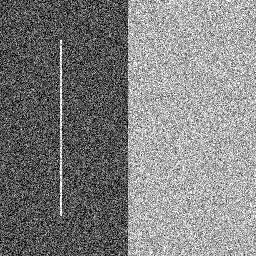
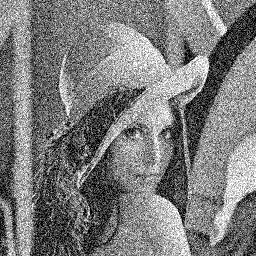
검증

diff --git a/experiments/gaussian_experiment.py b/experiments/gaussian_experiment.py
@@ -31,10 +31,9 @@ def png_bytes(image):
 
 
 def clean_image():
-    image = Image.new("RGB", (256, 256), (80, 80, 80))
-    image.paste((176, 176, 176), (128, 0, 256, 256))
-    image.paste((224, 224, 224), (60, 40, 62, 216))
-    return image
+    path = Path(__file__).resolve().with_name("Lenna.png")
+    with Image.open(path) as image:
+        return image.convert("RGB").resize((256, 256), Image.Resampling.LANCZOS)
 
 
 def noisy_image(clean, sigma):

diff --git a/docs/image-processing/results/gaussian/summary.md b/docs/image-processing/results/gaussian/summary.md
@@ -4,19 +4,19 @@ Generated by `experiments/gaussian_experiment.py`. Values use 8-bit L intensity.
 
 | Noise sigma | Radius px | RMSE vs clean | Flat variance | Step contrast | Thin-line contrast |
 |---:|---:|---:|---:|---:|---:|
-| 0 | 0 | 0.000 | 0.000 | 96.000 | 144.000 |
-| 0 | 1 | 5.547 | 0.000 | 39.000 | 93.000 |
-| 0 | 2 | 8.760 | 0.000 | 18.000 | 53.000 |
-| 0 | 4 | 10.956 | 0.000 | 10.000 | 24.000 |
-| 5 | 0 | 5.016 | 25.623 | 96.266 | 144.715 |
-| 5 | 1 | 5.778 | 2.333 | 39.078 | 93.012 |
-| 5 | 2 | 8.822 | 0.635 | 18.312 | 52.465 |
-| 5 | 4 | 10.968 | 0.198 | 9.039 | 23.434 |
-| 20 | 0 | 20.027 | 408.227 | 97.141 | 146.320 |
-| 20 | 1 | 7.961 | 31.360 | 39.289 | 93.270 |
-| 20 | 2 | 9.203 | 6.767 | 18.320 | 52.191 |
-| 20 | 4 | 11.047 | 1.710 | 9.023 | 23.164 |
-| 40 | 0 | 39.225 | 1574.841 | 97.422 | 143.570 |
-| 40 | 1 | 12.509 | 121.653 | 39.219 | 90.887 |
-| 40 | 2 | 10.348 | 25.701 | 18.195 | 50.488 |
-| 40 | 4 | 11.331 | 6.296 | 8.922 | 22.195 |
+| 0 | 0 | 0.000 | 1475.078 | 2.492 | 33.891 |
+| 0 | 1 | 8.421 | 1354.022 | 1.016 | 30.703 |
+| 0 | 2 | 14.107 | 1176.349 | 0.742 | 27.312 |
+| 0 | 4 | 20.455 | 810.972 | 0.961 | 20.066 |
+| 5 | 0 | 5.016 | 1494.061 | 2.758 | 34.605 |
+| 5 | 1 | 8.588 | 1348.549 | 1.062 | 30.977 |
+| 5 | 2 | 14.137 | 1173.298 | 0.680 | 27.387 |
+| 5 | 4 | 20.463 | 808.911 | 1.148 | 20.016 |
+| 20 | 0 | 19.992 | 1858.086 | 3.633 | 36.605 |
+| 20 | 1 | 10.216 | 1363.014 | 1.148 | 31.566 |
+| 20 | 2 | 14.415 | 1166.671 | 0.773 | 27.250 |
+| 20 | 4 | 20.531 | 800.637 | 1.117 | 19.887 |
+| 40 | 0 | 38.917 | 2985.925 | 4.641 | 38.105 |
+| 40 | 1 | 14.145 | 1410.196 | 1.320 | 31.926 |
+| 40 | 2 | 15.375 | 1149.398 | 0.805 | 26.875 |
+| 40 | 4 | 20.883 | 779.529 | 1.000 | 19.406 |
